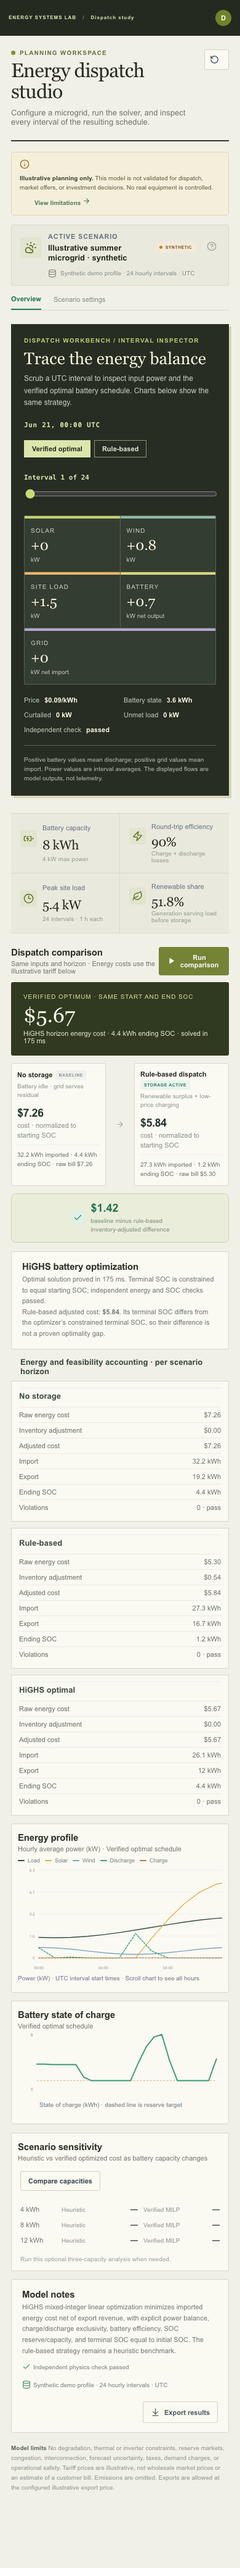
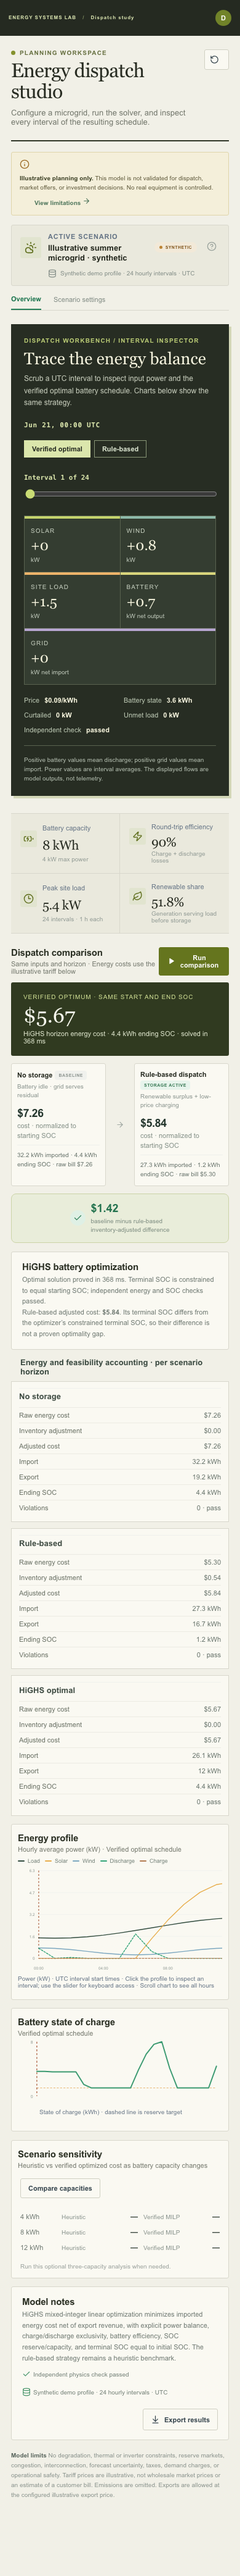
Connect visualizations to result inspectors and document product design

diff --git a/src/main.tsx b/src/main.tsx
@@ -44,8 +44,8 @@ function App() {
           {result&&<div className={`savings ${result.strategies.baseline.adjustedCost-active!.adjustedCost<0?'negative':''}`}><span className="savings-icon"><Check size={15}/></span><span><b>{$(result.strategies.baseline.adjustedCost-active!.adjustedCost)}</b><small>baseline minus rule-based<br/>inventory-adjusted difference</small></span></div>}</div>
         <section className="detail-panel optimizer-summary"><div><h2>HiGHS battery optimization</h2><p>{result?.optimization?.status === 'Optimal' && result.strategies.optimized ? `Optimal solution proved in ${result.optimization.runtimeMs} ms. Terminal SOC is constrained to equal starting SOC; independent energy and SOC checks ${result.optimization.verified ? 'passed' : 'failed'}.` : result ? `No optimal schedule is shown. Solver status: ${result.optimization?.status ?? 'not available'}.` : 'The optimizer will solve charge/discharge and grid flow together with battery constraints.'}</p>{result?.strategies.optimized && <p>Rule-based adjusted cost: <b>{$(result.strategies.ruleBased.adjustedCost)}</b>. Its terminal SOC differs from the optimizer’s constrained terminal SOC, so their difference is not a proven optimality gap.</p>}</div></section>
         <Accounting result={result}/>
-        <div className="chart-panel"><div className="panel-heading"><div><h2>Energy profile</h2><p>Hourly average power (kW) · {result?(shownStrategy==='optimized'?'Verified optimal':'Rule-based')+' schedule':'run comparison for battery schedule'}</p></div><div className="legend"><span><i className="leg-load"/> Load</span><span><i className="leg-solar"/> Solar</span><span><i className="leg-wind"/> Wind</span><span><i className="leg-batt"/> Discharge</span><span><i className="leg-charge"/> Charge</span></div></div><ProfileChart scenario={scenario} result={result} strategy={shownStrategy}/></div>
-        <div className="lower-grid"><div className="chart-panel small-panel"><div className="panel-heading"><div><h2>Battery state of charge</h2><p>{result?shownStrategy==='optimized'?'Verified optimal schedule':'Rule-based schedule':'Within configured reserve and capacity'}</p></div></div><SocChart scenario={scenario} result={result} strategy={shownStrategy}/></div><div className="chart-panel small-panel"><div className="panel-heading"><div><h2>Scenario sensitivity</h2><p>Heuristic vs verified optimized cost as battery capacity changes</p></div></div><Sensitivity scenario={scenario}/></div></div>
+        <div className="chart-panel"><div className="panel-heading"><div><h2>Energy profile</h2><p>Hourly average power (kW) · {result?(shownStrategy==='optimized'?'Verified optimal':'Rule-based')+' schedule':'run comparison for battery schedule'}</p></div><div className="legend"><span><i className="leg-load"/> Load</span><span><i className="leg-solar"/> Solar</span><span><i className="leg-wind"/> Wind</span><span><i className="leg-batt"/> Discharge</span><span><i className="leg-charge"/> Charge</span></div></div><ProfileChart scenario={scenario} result={result} strategy={shownStrategy} selected={Math.min(selectedInterval,scenario.intervals.length-1)} onSelect={setSelectedInterval}/></div>
+        <div className="lower-grid"><div className="chart-panel small-panel"><div className="panel-heading"><div><h2>Battery state of charge</h2><p>{result?shownStrategy==='optimized'?'Verified optimal schedule':'Rule-based schedule':'Within configured reserve and capacity'}</p></div></div><SocChart scenario={scenario} result={result} strategy={shownStrategy} selected={Math.min(selectedInterval,scenario.intervals.length-1)}/></div><div className="chart-panel small-panel"><div className="panel-heading"><div><h2>Scenario sensitivity</h2><p>Heuristic vs verified optimized cost as battery capacity changes</p></div></div><Sensitivity scenario={scenario}/></div></div>
         <section className="detail-panel"><div><h2>Model notes</h2><p>{result?.objective||'Run the comparison to see the objective and independent feasibility check.'}</p><div className="model-meta"><span><Check size={14}/> {result?.verified?'Independent physics check passed':'Feasibility check runs with comparison'}</span><span><Database size={14}/> {source}</span></div></div><button className="btn btn-secondary" onClick={exportResult} disabled={!result}><ArrowDownToLine size={15}/> Export results</button></section>
         <footer id="limits"><b>Model limits</b> No degradation, thermal or inverter constraints, reserve markets, congestion, interconnection, forecast uncertainty, taxes, demand charges, or operational safety. Tariff prices are illustrative, not wholesale market prices or an estimate of a customer bill. Emissions are omitted. {scenario.exportAllowed?'Exports are allowed at the configured illustrative export price.':'Exports are disabled; surplus generation is curtailed.'}</footer>
       </>}
@@ -76,8 +76,8 @@ function DispatchFlow({scenario,result,strategy,onStrategyChange,selected,onSele
 function Metric({label,value,sub,icon}:{label:string;value:string;sub:string;icon:React.ReactNode}){return <article className="metric"><span className="metric-icon">{icon}</span><span className="metric-label">{label}</span><strong>{value}</strong><small>{sub}</small></article>}
 function StrategyCard({title,tag,subtitle,value,unit,detail,active}:{title:string;tag:string;subtitle:string;value:string;unit:string;detail:string;active:boolean}){return <article className={`strategy ${active?'strategy-active':''}`}><div className="strategy-top"><h3>{title}</h3><span className={active?'active-tag':'base-tag'}>{tag}</span></div><p>{subtitle}</p><strong className="strategy-value">{value}</strong><span className="strategy-unit">{unit}</span><div className="strategy-detail">{detail}</div></article>}
 function Accounting({result}:{result:Result|null}){return <div className="accounting-wrap"><table className="accounting"><caption>Energy and feasibility accounting · per scenario horizon</caption><thead><tr><th>Strategy</th><th>Raw energy cost (USD)</th><th>Inventory adjustment (USD)</th><th>Adjusted cost (USD)</th><th>Import (kWh)</th><th>Export (kWh)</th><th>Ending SOC (kWh)</th><th>Violations</th></tr></thead><tbody>{result?(['baseline','ruleBased','optimized'] as const).filter(key=>key!=='optimized'||result.strategies.optimized).map(key=>{const x=key==='optimized'?result.strategies.optimized!:result.strategies[key];return <tr key={key}><th scope="row">{key==='baseline'?'No storage':key==='ruleBased'?'Rule-based':'HiGHS optimal'}</th><td data-label="Raw energy cost">{$(x.totalCost)}</td><td data-label="Inventory adjustment">{$(x.inventoryAdjustment)}</td><td data-label="Adjusted cost">{$(x.adjustedCost)}</td><td data-label="Import">{n1(x.importedKWh)} kWh</td><td data-label="Export">{n1(x.exportedKWh)} kWh</td><td data-label="Ending SOC">{n1(x.finalSocKWh)} kWh</td><td data-label="Violations">{key==='optimized'?(result.optimization?.verified?'0 · pass':'—'):(result.verified?'0 · pass':'—')}</td></tr>}):<tr><td colSpan={8}>Run comparison to calculate accounting and constraint checks.</td></tr>}</tbody></table></div>}
-function ProfileChart({scenario,result,strategy}:{scenario:Scenario;result:Result|null;strategy:'optimized'|'ruleBased'}){const W=920,H=250,L=48,R=18,T=15,B=34,max=Math.max(1,...scenario.intervals.flatMap(p=>[p.loadKW,p.solarKW,p.windKW]),...(result?.strategies[strategy]?.intervals.map(p=>p.chargeKW+p.dischargeKW)||[]))*1.15;const x=(i:number)=>L+i*(W-L-R)/Math.max(1,scenario.intervals.length-1),y=(v:number)=>T+(max-v)*(H-T-B)/max;const line=(key:'loadKW'|'solarKW'|'windKW')=>scenario.intervals.map((p,i)=>`${i?'L':'M'} ${x(i)} ${y(p[key])}`).join(' ');const batteryLine=(key:'chargeKW'|'dischargeKW')=>result?.strategies[strategy]?.intervals.map((p,i)=>`${i?'L':'M'} ${x(i)} ${y(p[key])}`).join(' ');return <div className="svg-wrap"><svg viewBox={`0 0 ${W} ${H}`} role="img" aria-label="Interval load, solar, wind, charge, and discharge power line chart"><title>Interval power profile</title>{[0,.25,.5,.75,1].map((v,i)=><g key={i}><line x1={L} x2={W-R} y1={T+v*(H-T-B)} y2={T+v*(H-T-B)} className="gridline"/><text x={L-9} y={T+v*(H-T-B)+4} textAnchor="end" className="axis-label">{n1(max*(1-v))}</text></g>)}<path d={line('loadKW')} className="line-load"/><path d={line('solarKW')} className="line-solar"/><path d={line('windKW')} className="line-wind"/>{result&&<><path d={batteryLine('dischargeKW')} className="line-batt"/><path d={batteryLine('chargeKW')} className="line-charge"/></>}{scenario.intervals.filter((_,i)=>i%Math.max(1,Math.floor(scenario.intervals.length/6))===0).map(p=>{const idx=scenario.intervals.indexOf(p);const date=new Date(p.timestamp);return <text key={p.timestamp} x={x(idx)} y={H-8} textAnchor="middle" className="axis-label">{date.getUTCHours().toString().padStart(2,'0')}:{date.getUTCMinutes().toString().padStart(2,'0')}</text>})}</svg><div className="chart-foot">Power (kW) · UTC interval start times</div></div>}
-function SocChart({scenario,result,strategy}:{scenario:Scenario;result:Result|null;strategy:'optimized'|'ruleBased'}){const rows=result?.strategies[strategy]?.intervals||[],W=430,H=148,L=40,R=12,T=10,B=24,max=Math.max(1,scenario.batteryKWh),x=(i:number)=>L+i*(W-L-R)/Math.max(1,scenario.intervals.length-1),y=(v:number)=>T+(max-v)*(H-T-B)/max;return <div className="svg-wrap"><svg viewBox={`0 0 ${W} ${H}`} role="img" aria-label="Battery state of charge over time"><title>Battery state of charge</title><line x1={L} x2={W-R} y1={y(scenario.batteryKWh*scenario.minSocFraction)} y2={y(scenario.batteryKWh*scenario.minSocFraction)} className="reserve-line"/><text x={L-8} y={y(max)+4} textAnchor="end" className="axis-label">{n1(max)}</text><text x={L-8} y={y(0)+4} textAnchor="end" className="axis-label">0</text>{rows.length>0&&<path d={rows.map((p,i)=>`${i?'L':'M'} ${x(i)} ${y(p.socKWh)}`).join(' ')} className="soc-line"/>}</svg><div className="chart-foot">State of charge (kWh) · dashed line is reserve target</div></div>}
+function ProfileChart({scenario,result,strategy,selected,onSelect}:{scenario:Scenario;result:Result|null;strategy:'optimized'|'ruleBased';selected:number;onSelect:(value:number)=>void}){const W=920,H=250,L=48,R=18,T=15,B=34,max=Math.max(1,...scenario.intervals.flatMap(p=>[p.loadKW,p.solarKW,p.windKW]),...(result?.strategies[strategy]?.intervals.map(p=>p.chargeKW+p.dischargeKW)||[]))*1.15;const x=(i:number)=>L+i*(W-L-R)/Math.max(1,scenario.intervals.length-1),y=(v:number)=>T+(max-v)*(H-T-B)/max;const line=(key:'loadKW'|'solarKW'|'windKW')=>scenario.intervals.map((p,i)=>`${i?'L':'M'} ${x(i)} ${y(p[key])}`).join(' ');const batteryLine=(key:'chargeKW'|'dischargeKW')=>result?.strategies[strategy]?.intervals.map((p,i)=>`${i?'L':'M'} ${x(i)} ${y(p[key])}`).join(' ');return <div className="svg-wrap"><svg viewBox={`0 0 ${W} ${H}`} role="img" aria-label="Interval load, solar, wind, charge, and discharge power line chart. Click to inspect an interval; use the slider for keyboard access." onClick={e=>{const bounds=e.currentTarget.getBoundingClientRect();const position=(e.clientX-bounds.left)/bounds.width*W;onSelect(Math.max(0,Math.min(scenario.intervals.length-1,Math.round((position-L)/(W-L-R)*(scenario.intervals.length-1)))))}}><title>Interval power profile</title>{[0,.25,.5,.75,1].map((v,i)=><g key={i}><line x1={L} x2={W-R} y1={T+v*(H-T-B)} y2={T+v*(H-T-B)} className="gridline"/><text x={L-9} y={T+v*(H-T-B)+4} textAnchor="end" className="axis-label">{n1(max*(1-v))}</text></g>)}<line x1={x(selected)} x2={x(selected)} y1={T} y2={H-B} className="selected-interval-line" pointerEvents="none"/><path d={line('loadKW')} className="line-load"/><path d={line('solarKW')} className="line-solar"/><path d={line('windKW')} className="line-wind"/>{result&&<><path d={batteryLine('dischargeKW')} className="line-batt"/><path d={batteryLine('chargeKW')} className="line-charge"/></>}{scenario.intervals.filter((_,i)=>i%Math.max(1,Math.floor(scenario.intervals.length/6))===0).map(p=>{const idx=scenario.intervals.indexOf(p);const date=new Date(p.timestamp);return <text key={p.timestamp} x={x(idx)} y={H-8} textAnchor="middle" className="axis-label">{date.getUTCHours().toString().padStart(2,'0')}:{date.getUTCMinutes().toString().padStart(2,'0')}</text>})}</svg><div className="chart-foot">Power (kW) · UTC interval start times · Click the profile to inspect an interval; use the slider for keyboard access</div></div>}
+function SocChart({scenario,result,strategy,selected}:{scenario:Scenario;result:Result|null;strategy:'optimized'|'ruleBased';selected:number}){const rows=result?.strategies[strategy]?.intervals||[],W=430,H=148,L=40,R=12,T=10,B=24,max=Math.max(1,scenario.batteryKWh),x=(i:number)=>L+i*(W-L-R)/Math.max(1,scenario.intervals.length-1),y=(v:number)=>T+(max-v)*(H-T-B)/max;return <div className="svg-wrap"><svg viewBox={`0 0 ${W} ${H}`} role="img" aria-label="Battery state of charge over time"><title>Battery state of charge</title><line x1={L} x2={W-R} y1={y(scenario.batteryKWh*scenario.minSocFraction)} y2={y(scenario.batteryKWh*scenario.minSocFraction)} className="reserve-line"/><text x={L-8} y={y(max)+4} textAnchor="end" className="axis-label">{n1(max)}</text><text x={L-8} y={y(0)+4} textAnchor="end" className="axis-label">0</text>{rows.length>0&&<><line x1={x(selected)} x2={x(selected)} y1={T} y2={H-B} className="selected-interval-line" pointerEvents="none"/><path d={rows.map((p,i)=>`${i?'L':'M'} ${x(i)} ${y(p.socKWh)}`).join(' ')} className="soc-line"/></>}</svg><div className="chart-foot">State of charge (kWh) · dashed line is reserve target</div></div>}
 function Sensitivity({scenario}:{scenario:Scenario}){const [vals,setVals]=useState<{heuristicCosts:(number|null)[];optimizedCosts:(number|null)[];optimizationStatuses:string[]}|null>(null);const [error,setError]=useState('');const [busy,setBusy]=useState(false);async function compare(){setBusy(true);setError('');setVals(null);try{const r=await fetch('/api/sensitivity',{method:'POST',headers:{'Content-Type':'application/json'},body:JSON.stringify({scenario})});const d=await r.json();if(!r.ok)throw new Error(d.error||'Sensitivity unavailable');setVals(d);}catch(e){setError(e instanceof Error?e.message:'Sensitivity unavailable');}finally{setBusy(false);}}return <div className="sensitivity"><button className="btn btn-secondary" onClick={()=>void compare()} disabled={busy}>{busy?'Comparing…':'Compare capacities'}</button>{[.5,1,1.5].map((f,i)=><div className="sens-row" key={f}><span>{n1(scenario.batteryKWh*f)} kWh</span><div className="sens-value"><small>Heuristic</small><b>{vals?.heuristicCosts[i]==null?'—':$(vals.heuristicCosts[i])}</b></div><div className="sens-value"><small title={vals?.optimizationStatuses[i]}>Verified MILP</small><b>{vals?.optimizedCosts[i]==null?'—':$(vals.optimizedCosts[i])}</b></div></div>)}<small role="status">{error?error:vals?vals.optimizationStatuses.includes('Outside supported capacity range')?'Unavailable capacities exceed this demo’s supported limits; valid comparisons are shown.':'MILP costs appear only when an optimal schedule passes independent verification.':'Run this optional three-capacity analysis when needed.'}</small></div>}
 
 function Settings({scenario,change,scales,scaleProfile,buyTariff,setBuyTariff,applyTariff,eiaKey,setEiaKey,region,setRegion,upload,loadEia,busy,source}:{scenario:Scenario;change:<K extends keyof Scenario>(key:K,value:Scenario[K])=>void;scales:{load:number;solar:number;wind:number};scaleProfile:(key:'load'|'solar'|'wind',value:number)=>void;buyTariff:number;setBuyTariff:(v:number)=>void;applyTariff:()=>void;eiaKey:string;setEiaKey:(v:string)=>void;region:string;setRegion:(v:string)=>void;upload:(f?:File)=>void;loadEia:()=>void;busy:boolean;source:string}) {

diff --git a/e2e/smoke.spec.ts b/e2e/smoke.spec.ts
@@ -1,6 +1,8 @@
 import { expect, test } from '@playwright/test';
 
 test('demo → edit settings → compare → export', async ({ page }) => {
+  const pageErrors:string[] = [];
+  page.on('pageerror', error => pageErrors.push(error.message));
   await page.goto('/');
   await expect(page.getByRole('heading', { name: 'Energy dispatch studio' })).toBeVisible();
   await expect(page.getByText('SYNTHETIC', { exact: true })).toBeVisible();
@@ -27,6 +29,14 @@ test('demo → edit settings → compare → export', async ({ page }) => {
   await expect(page.locator('.dispatch-node.battery strong')).toHaveText(battery('ruleBased'));
   await expect(page.locator('.chart-panel').first()).toContainText('Rule-based schedule');
   await expect(page.locator('.strategy-switch [aria-pressed="true"]')).toHaveText('Rule-based');
+  const profile = page.locator('.chart-panel').first().locator('svg');
+  const marker = profile.locator('.selected-interval-line');
+  const oldX = await marker.getAttribute('x1');
+  const bounds = (await profile.boundingBox())!;
+  await profile.click({ position: { x: bounds.width * 0.7, y: bounds.height / 2 } });
+  expect(Number(await page.getByRole('slider', { name: 'Inspect dispatch interval' }).inputValue())).toBeGreaterThan(12);
+  await expect(marker).not.toHaveAttribute('x1', oldX!);
+  await expect(page.locator('.selected-interval-line')).toHaveCount(2);
   await page.getByRole('button', { name: 'Compare capacities' }).click();
   await expect(page.locator('.sensitivity [role="status"]')).toHaveText(/MILP costs appear only/);
   await expect(page.getByText('$', { exact: false }).first()).toBeVisible();
@@ -35,6 +45,7 @@ test('demo → edit settings → compare → export', async ({ page }) => {
   await page.getByRole('button', { name: 'Export results' }).click();
   const download = await downloadEvent;
   expect(download.suggestedFilename()).toBe('gridopt-scenario.json');
+  expect(pageErrors).toEqual([]);
 });
 
 test('mobile layout and keyboard can run the comparison', async ({ page }) => {

diff --git a/src/style.css b/src/style.css
@@ -80,3 +80,5 @@ body,.main{background:#f1f0e7;color:#25291f}.workspace-icon{background:#dce2bb;c
 .metric-grid{margin-top:4px}
 @media(max-width:800px){.dispatch-intro{flex-direction:column}.dispatch-flows{grid-template-columns:repeat(2,minmax(0,1fr))}.dispatch-node:last-child{grid-column:1/-1}.dispatch-node strong{font-size:28px}.dispatch-time{white-space:normal}.content{padding-top:22px}.page-heading{align-items:flex-start}}
 @media(max-width:520px){.topbar{padding:0 14px}.crumb{font-size:8px}.dispatch-workbench{box-shadow:4px 4px 0 #d3d7b7}.dispatch-foot{display:grid;grid-template-columns:1fr 1fr;gap:12px}.dispatch-node{padding:14px 10px}.dispatch-node strong{font-size:23px}}
+.chart-panel:not(.small-panel) .svg-wrap svg{cursor:crosshair}
+.selected-interval-line{stroke:#a24d29;stroke-width:1.5;stroke-dasharray:4 4}

diff --git a/docs/design-brief.md b/docs/design-brief.md
@@ -1,0 +1,32 @@
+# GridOpt: product design brief
+
+## Audit and direction
+
+1. **Difference:** A small, auditable battery-dispatch benchmark compares a verified HiGHS MILP schedule with a transparent heuristic.
+2. **User:** A student or energy analyst testing how load, renewables, capacity, and tariff inputs change modeled dispatch.
+3. **Concept:** An instrument-style engineering workbench on chalk paper, with signal-lime and energy-flow colors. The interval trace replaces a generic KPI-first dashboard.
+4. **Primary action:** Configure a scenario, run comparison, switch schedules, inspect an interval, and export the complete result.
+5. **Technical proof:** The workbench exposes charge/discharge, grid balance, SOC, solver status, independent feasibility, and a capacity sensitivity experiment.
+6. **Visualization:** Aligned power time series and SOC trajectory, both keyed to the active strategy and inspected interval; an accounting table separates raw cost from battery inventory adjustment.
+7. **Remove:** The unused sidebar selectors were removed in the previous release. Do not add decorative telemetry or claim observed savings from synthetic tariffs.
+8. **Complete it:** Make selected interval visible in both charts and allow direct selection from the energy profile. The slider remains keyboard-accessible.
+
+## Implementation map
+
+`src/main.tsx` owns the scenario editor, trace, strategy switch, charts, sensitivity, and export. `server/model.ts` calculates baseline/heuristic; `server/optimizer.ts` and worker solve and verify the MILP; `server/index.ts` exposes demo, run, sensitivity, and optional EIA routes. React, Express, Zod, and HiGHS are existing dependencies. The overview and settings tabs are real states of the same workspace.
+
+The seeded profile and tariff are synthetic. EIA can provide a normalized demand shape but is not a matching solar, wind, or tariff observation. The current baseline is 13 server tests and four browser flows; JavaScript was 79,815 gzip bytes before this pass. Solver work runs in a worker; adding chart libraries or memoization without measured need would add complexity.
+
+## Feature and route inventory
+
+- **Screen:** One workbench with overview/settings tabs, dispatch trace, cost comparison, accounting, energy/SOC curves, sensitivity, and export. No decorative pages or shared design-system package.
+- **API:** `GET /api/health` and `/api/scenarios/demo`; `POST /api/run`, `/api/sensitivity`, and `/api/data/eia`. `/api/run` returns verified strategy intervals; EIA is optional.
+- **Working controls:** Capacity/efficiency/reserve/tariff/renewable settings, CSV import, optional EIA load shape, run, strategy switch, interval slider, capacity sensitivity, and JSON export.
+- **Presentation only:** Brand/avatar and icons. Dispatch, comparison, and chart values come from the same scenario/result state, not simulated telemetry.
+- **Constraint:** The solver is bounded to 168 intervals and its worker is the expensive operation. No measured client bottleneck justifies a chart dependency or additional caching.
+
+## Priorities and acceptance
+
+- **P1 completed:** Slider and chart selection produce one interval index; both charts mark it and the inspector displays the corresponding API result. Test the index and marker after a chart click.
+- **P2:** Preserve truthful optimizer/heuristic labels, mobile chart readability, independently checked feasibility, and CSV/API error handling.
+- **Out of scope:** Grid equipment control, market offers, and savings claims need hardware, tariffs, and operational validation.

diff --git a/README.md b/README.md
@@ -1,6 +1,6 @@
 # GridOpt
 
-[Frontend release audit](docs/frontend-audit.md)
+[Frontend release audit](docs/frontend-audit.md) · [Product design brief](docs/design-brief.md)
 
 GridOpt is an educational microgrid planning demonstrator. **Live demo:** [gridopt.vercel.app](https://gridopt.vercel.app/). It compares a no-storage baseline, a transparent heuristic, and a constrained battery optimizer using the same hourly or subhourly scenario. It does not control grid equipment, submit market offers, or provide engineering or investment recommendations.
 
@@ -19,7 +19,7 @@ npm run dev
 
 Open http://localhost:5173. The seeded example works without an account, API key, or external service. For production-style local preview, run `npm run build && npm start` and open http://localhost:3000.
 
-After running a comparison, use the workbench's strategy buttons to switch between the verified optimal and rule-based schedules. The interval values, energy profile, and battery state-of-charge chart all follow that choice.
+After running a comparison, use the workbench's strategy buttons to switch between the verified optimal and rule-based schedules. Scrub the interval slider or click the energy profile; both charts mark the inspected interval and follow the chosen strategy.
 
 Copy `.env.example` to `.env` only if you want to set an EIA key or deployment values. The app never needs a key to run its synthetic example. `TRUST_PROXY_HOPS` defaults to `0`, so forwarded client addresses are ignored; set it to the exact number of trusted reverse-proxy hops only when deployment traffic cannot bypass those proxies. Do not commit `.env` or put API keys in source control.
 

diff --git a/docs/frontend-audit.md b/docs/frontend-audit.md
@@ -1,6 +1,6 @@
 # Frontend release audit — GridOpt energy dispatch studio
 
-Checked 2026-10-23 against the previous committed redesign (`HEAD` before this release) and the current working build.
+The first table records the 2026-10-23 release against its prior commit. The 2026-10-24 interaction pass is recorded below.
 
 ## Product and information architecture
 
@@ -31,6 +31,13 @@ Bundle measurements sum the compressed generated `assets/*.js` and `assets/*.css
 ## Scientific and operational limits
 
 The MILP is a planning model; it omits hardware safety, degradation, market and tariff details. No screenshot, synthetic example, or model output is evidence of field validation. Public hosting and external data availability are tracked in the README/deployment docs.
+
+## 2026-10-24 interaction pass
+
+- **What changed:** The energy profile selects an interval; both the power and SOC charts mark it and match the chosen strategy and inspector.
+- **Verification:** 13 server tests and 4 browser flows, including chart click, API-value comparison, mobile overflow, and no client exception.
+- **Bundle after this pass:** 80013 gzip bytes of JavaScript and 6144 gzip bytes of CSS. This is +198 JavaScript gzip bytes against the 2026-10-23 release; no new runtime dependency was added.
+- **Visual review:** Current desktop and phone screenshots were generated by the browser workflows. The interactive screenshots linked from the README show the selected state where relevant.
 
 ## Release checks
 
